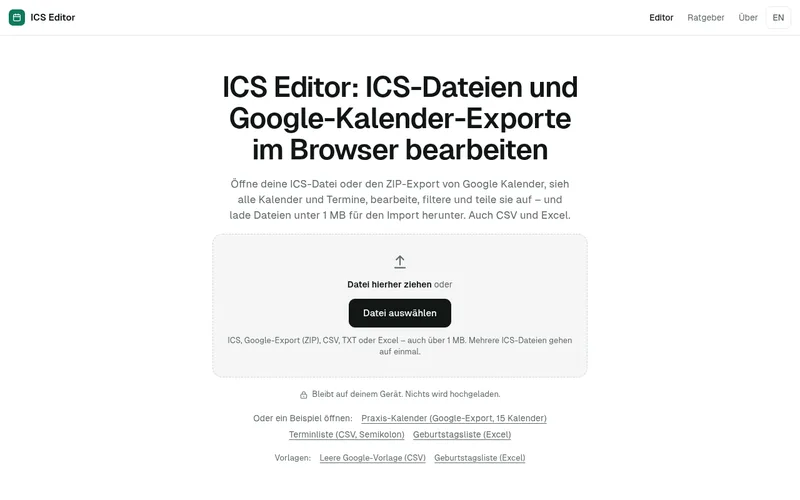
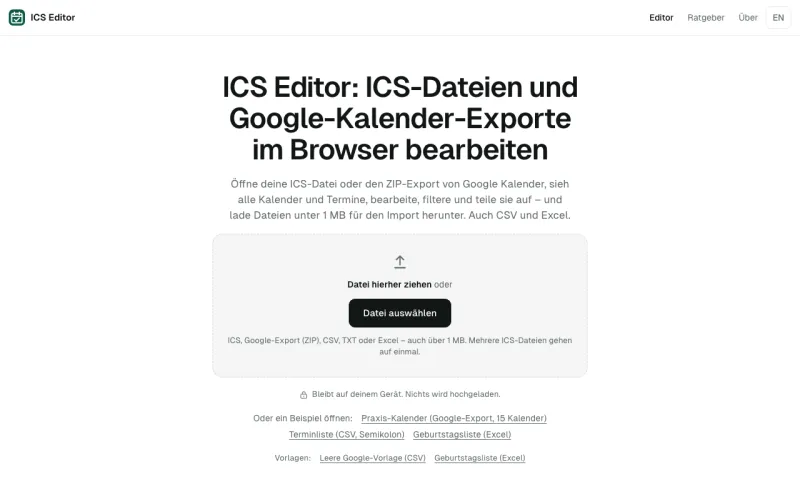
Projekte: ICS Editor in „Apps & Tools“ ergänzt

diff --git a/src/data/projects.ts b/src/data/projects.ts
@@ -119,6 +119,14 @@ export const groups: ProjectGroup[] = [
         image: 'familytree-free.webp',
       },
       {
+        name: 'ICS Editor',
+        url: 'https://freimoser.github.io/ics-editor/',
+        domain: 'freimoser.github.io/ics-editor',
+        description: 'ICS-Dateien und Google-Kalender-Exporte im Browser öffnen, bearbeiten und für den Google-Import unter 1 MB aufteilen; CSV und Excel werden zu ICS. Ohne Upload, mit Ratgebern zu Google Kalender.',
+        tags: ['Tool', 'Kalender', 'Browser-only'],
+        image: 'ics-editor.webp',
+      },
+      {
         name: 'Solvitalk',
         url: 'https://solvitalk.com/',
         domain: 'solvitalk.com',
@@ -132,6 +140,7 @@ export const groups: ProjectGroup[] = [
         domain: 'freimoser.github.io/ics-editor',
         description: 'ICS-Dateien und Google-Kalender-Exporte im Browser öffnen, bearbeiten, aufteilen und für den Import vorbereiten, auch bei Dateien über Googles 1-MB-Grenze. Kostenlos und ohne Upload.',
         tags: ['Tool', 'Kalender', 'Browser-only'],
+        image: 'ics-editor.webp',
         image: 'ics-editor.webp',
       },
       {
